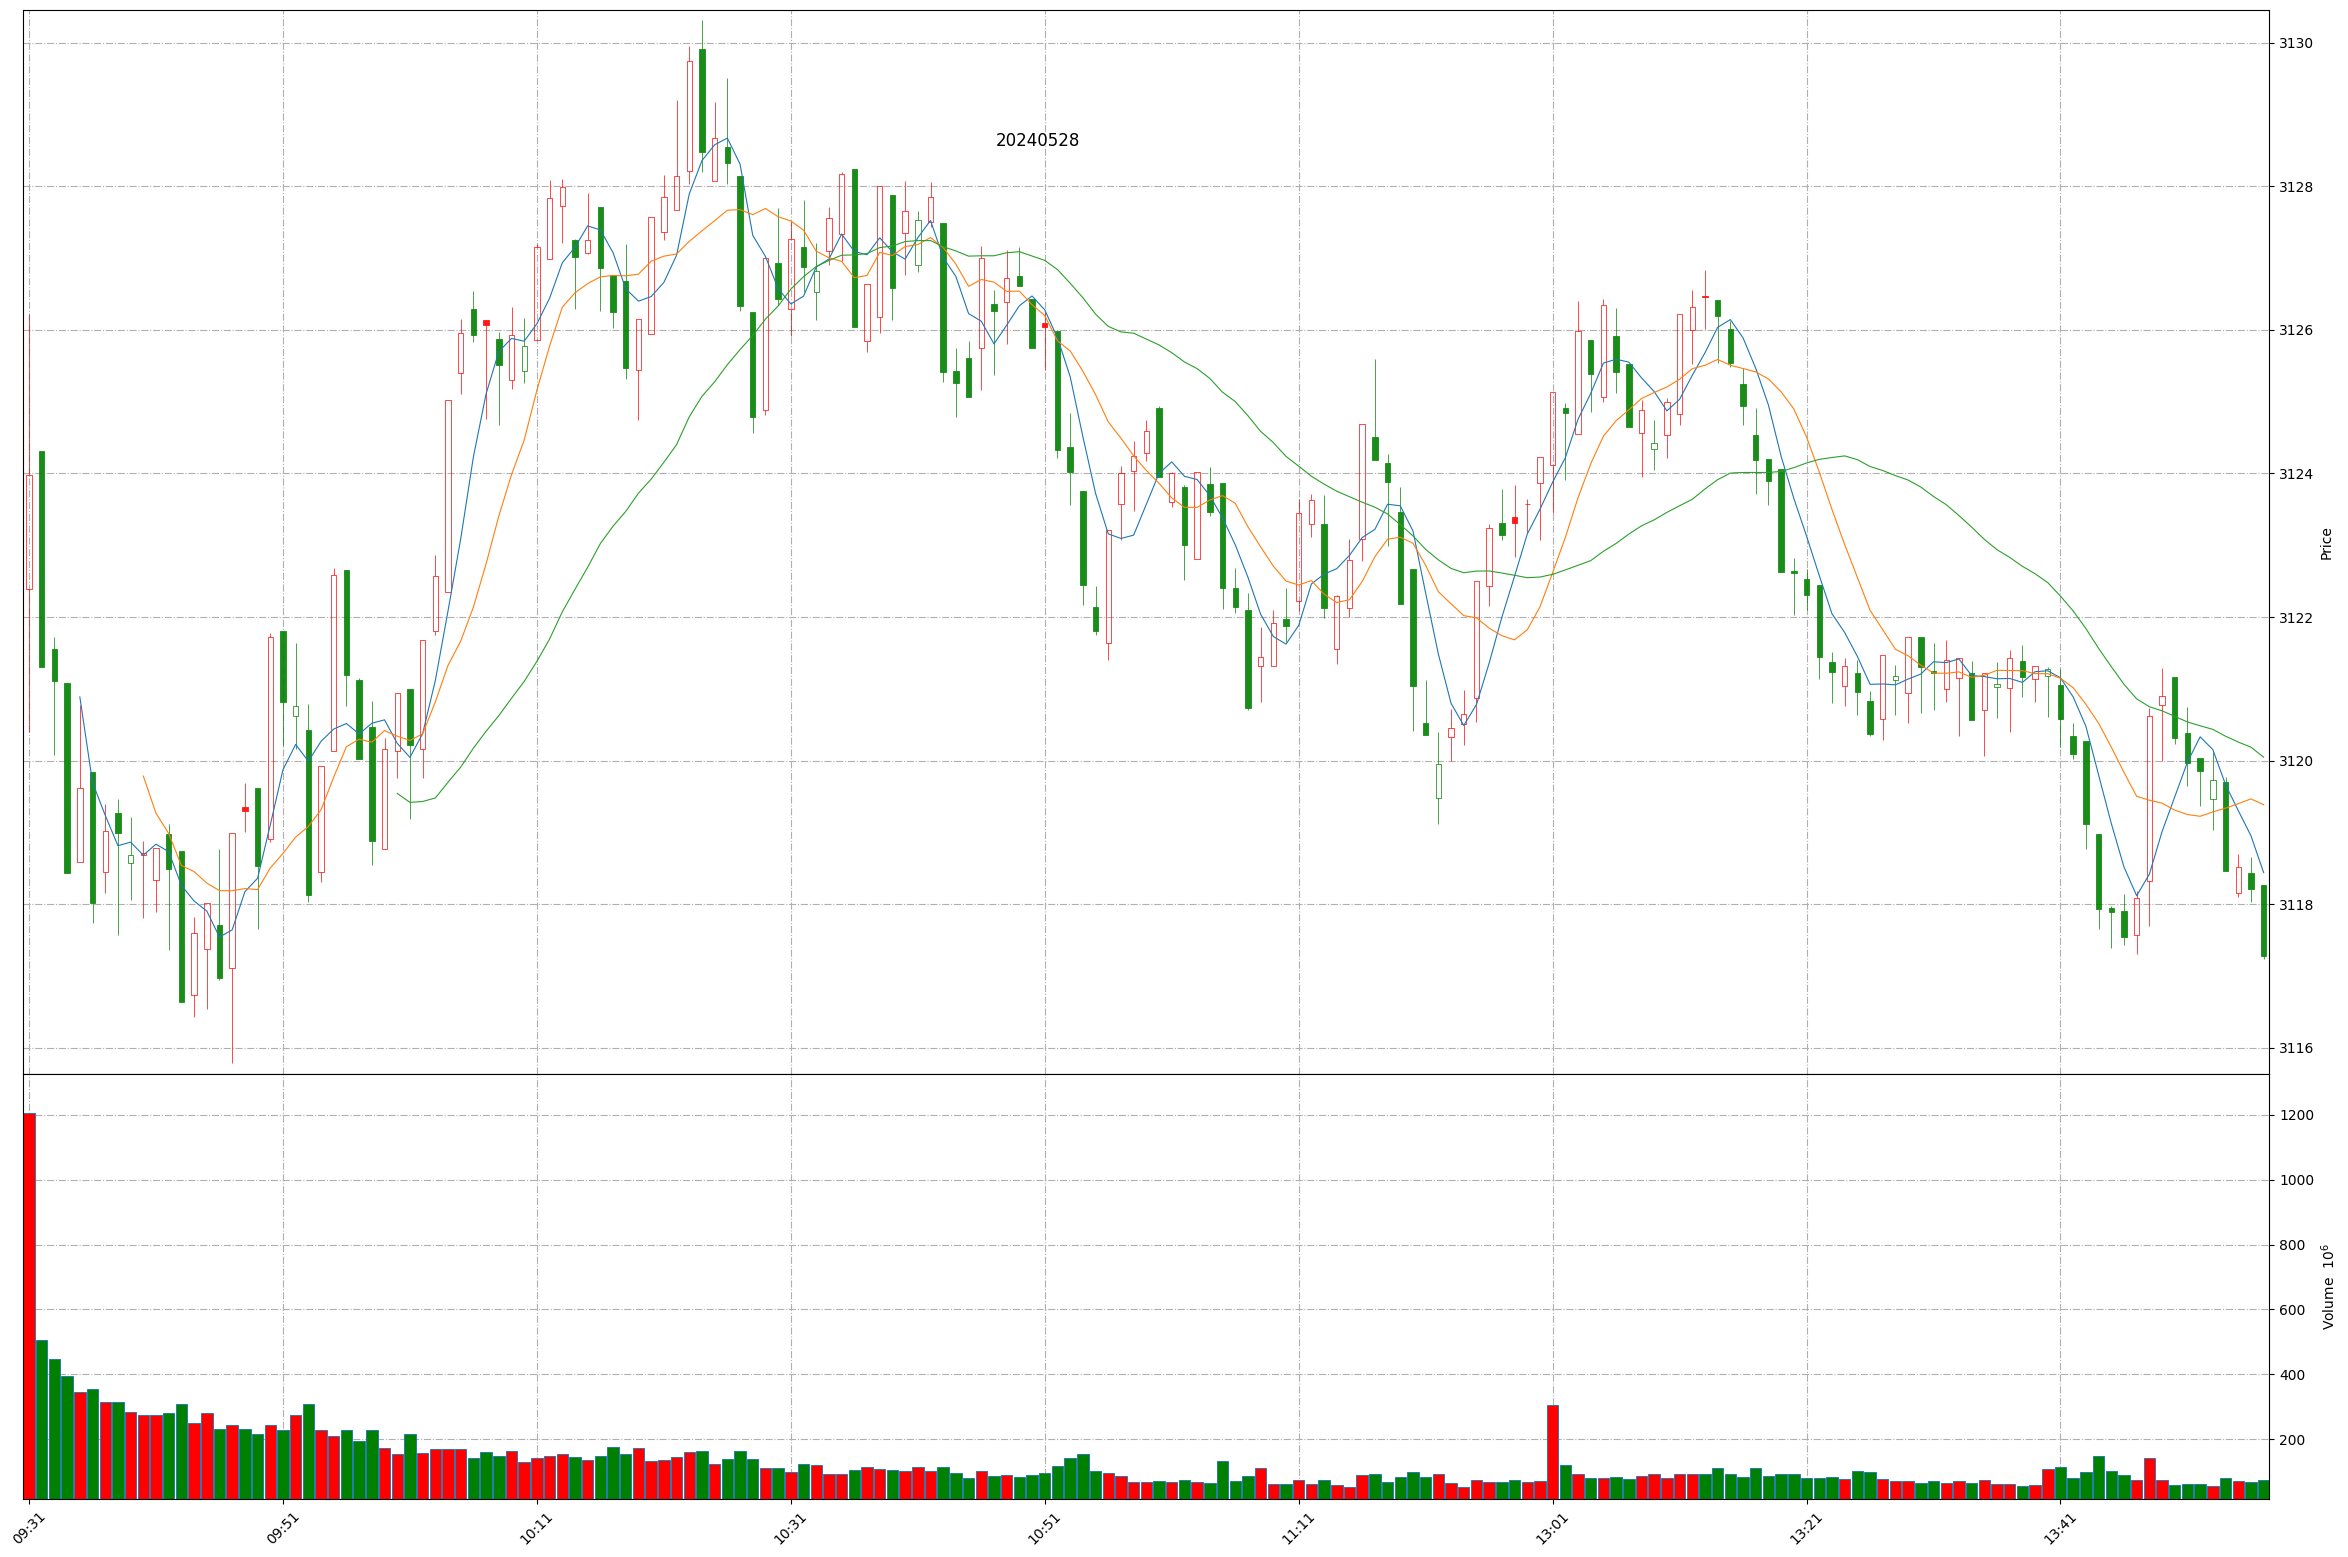
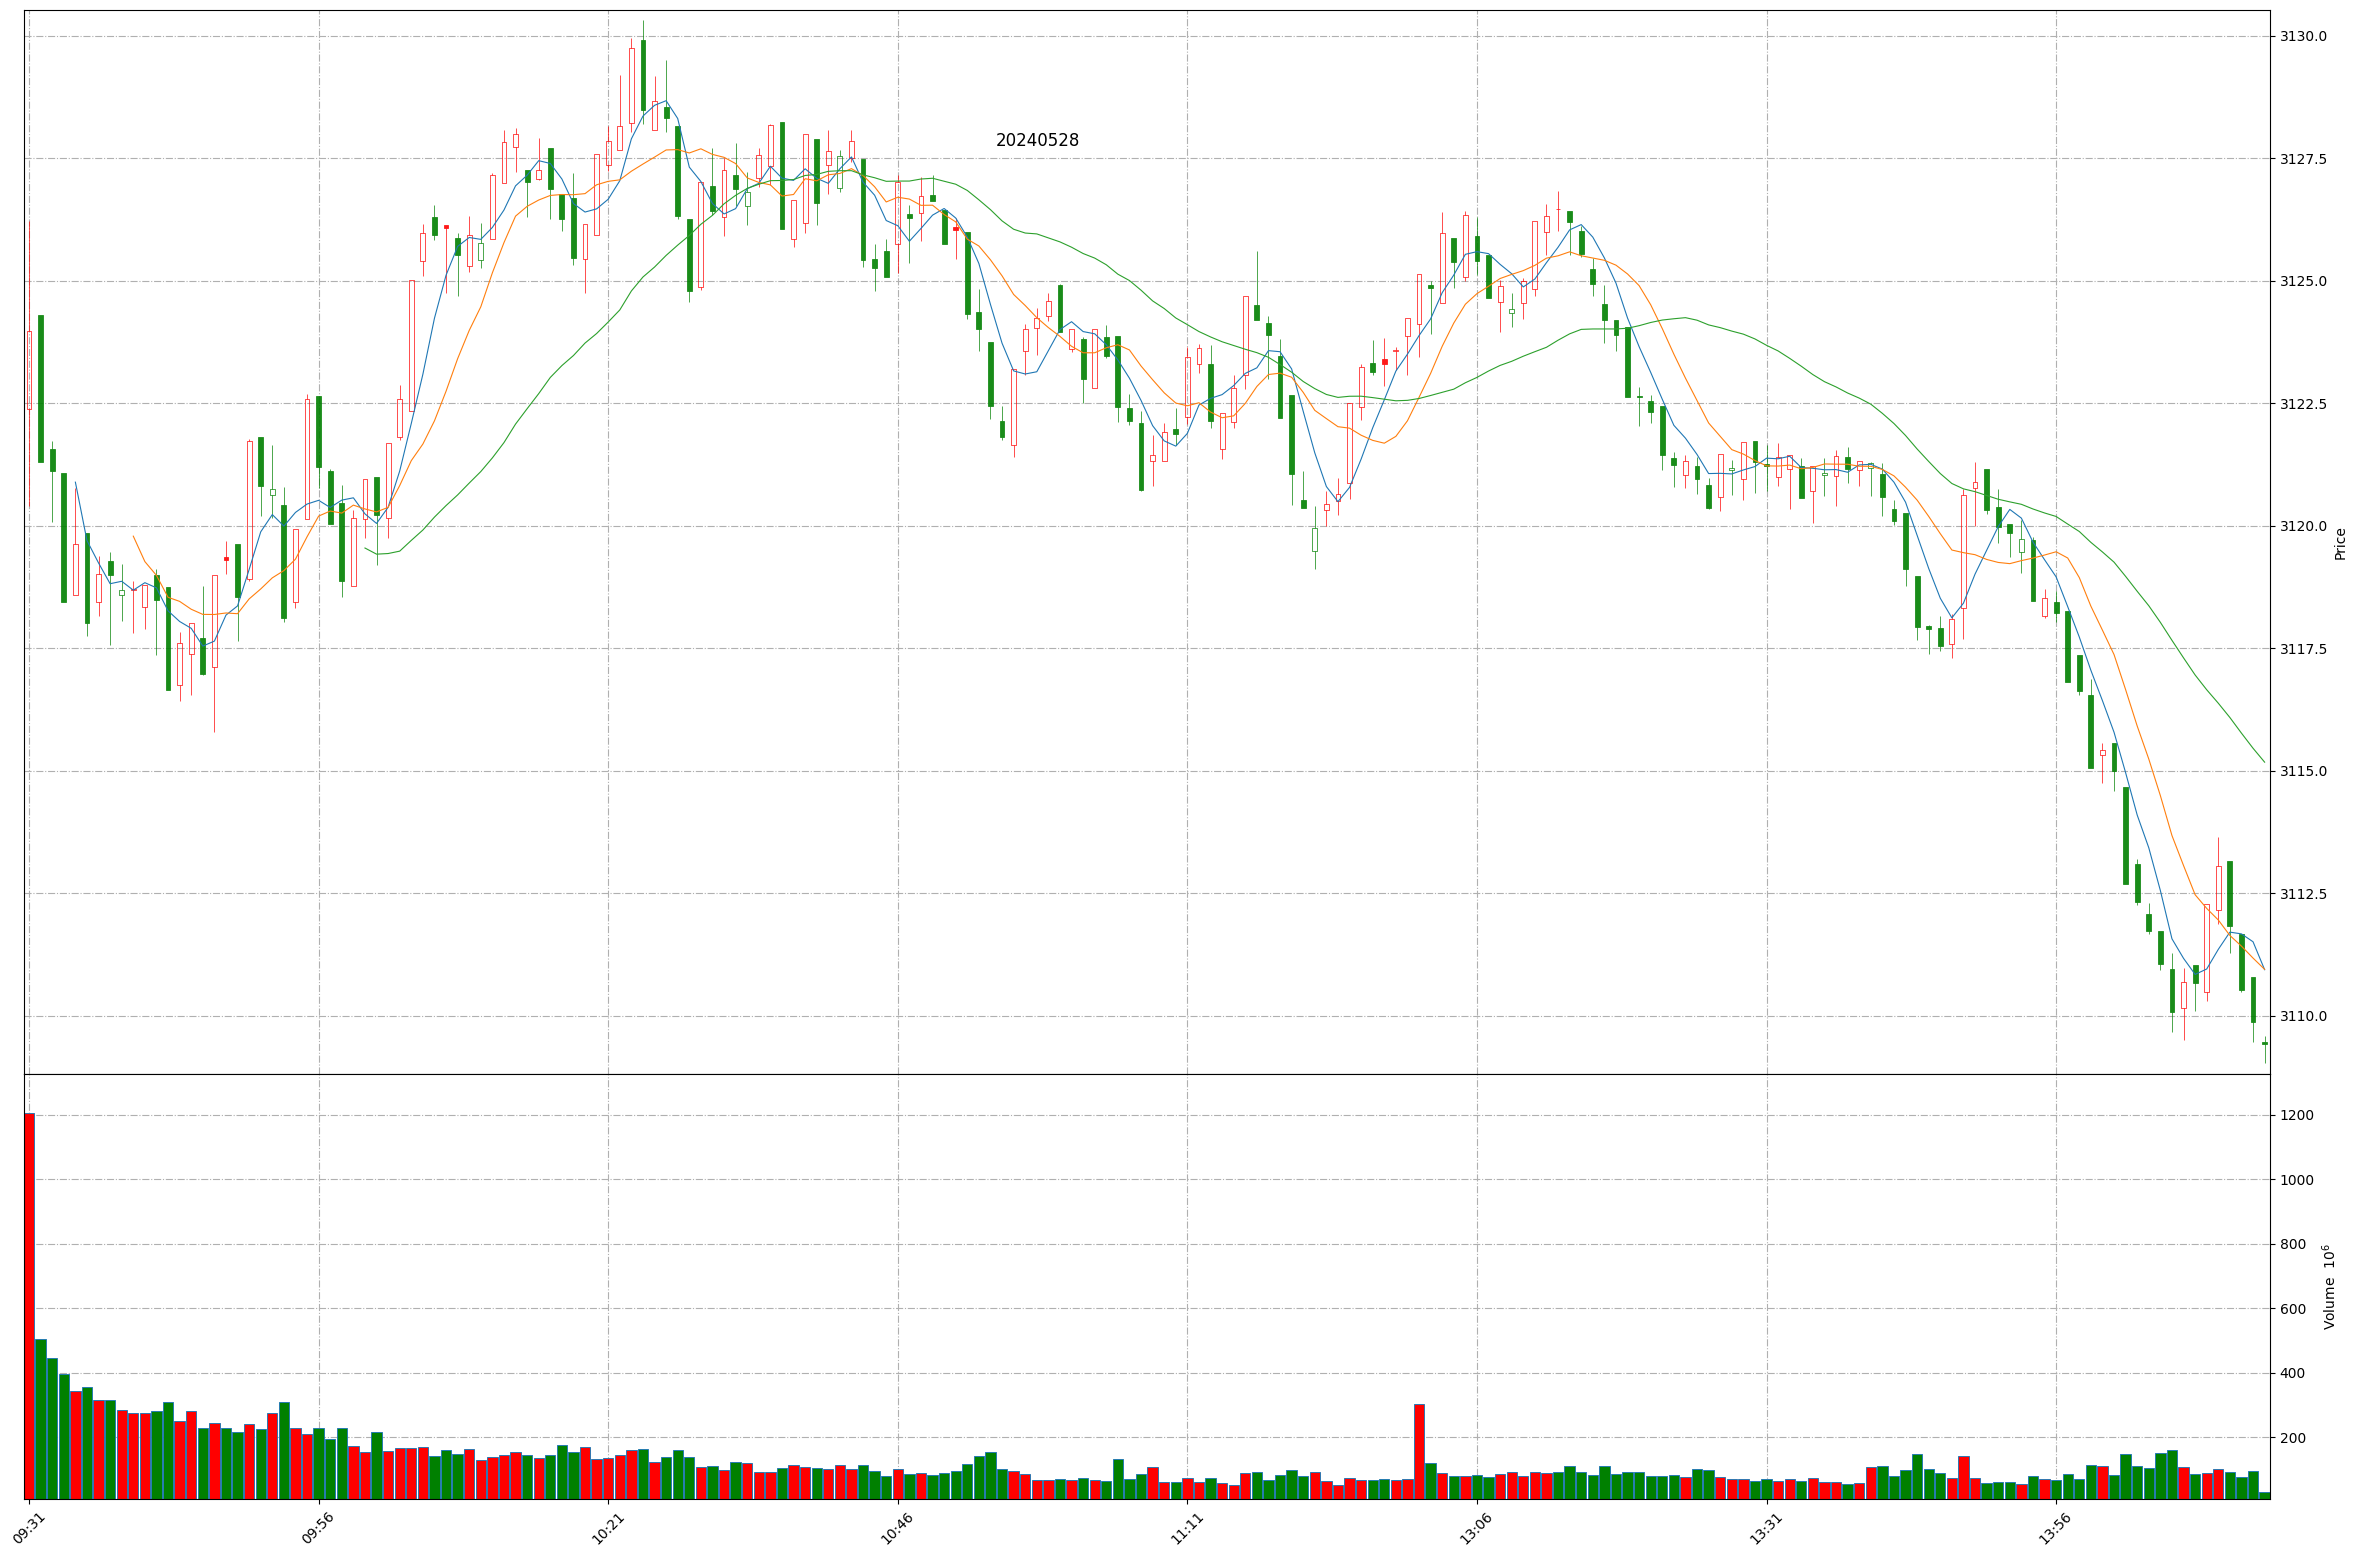
Github action update at 2024-05-28 14:13:36.

diff --git a/README.md b/README.md
@@ -1,11 +1,11 @@
 
 # Daily-A-share-market-quotes 每日 A 股指数（5min 更新）- 20240528
 
-### 上证指数 20240528 13:57
+### 上证指数 20240528 14:13
 ![](./fig/2024/5/20240528-sh000001.png)
 
-### 深证成指 20240528 13:57
+### 深证成指 20240528 14:13
 ![](./fig/2024/5/20240528-sz399001.png)
 
-### 北证50 20240528 13:57
+### 北证50 20240528 14:13
 ![](./fig/2024/5/20240528-bj899050.png)
